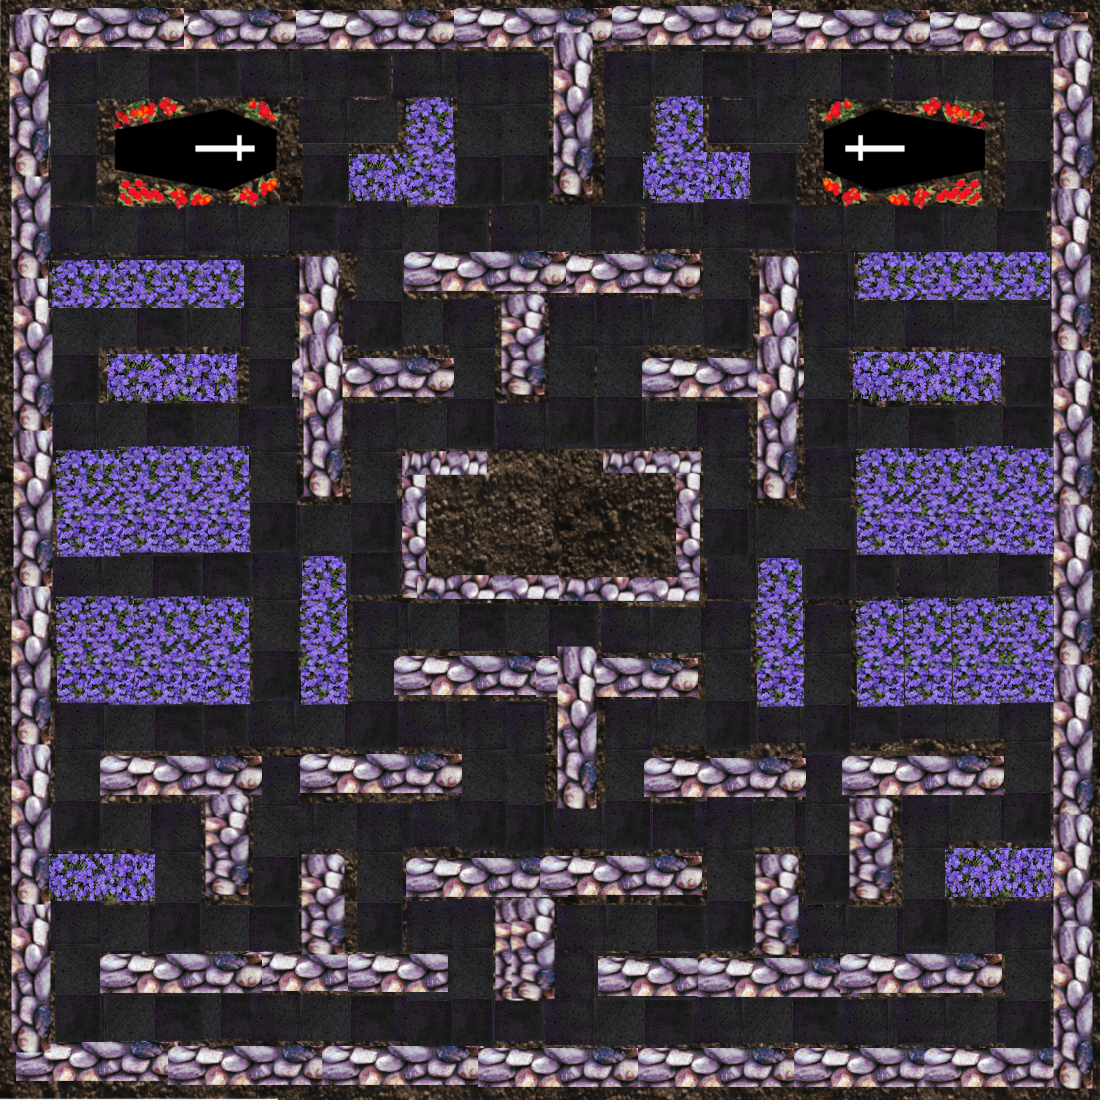
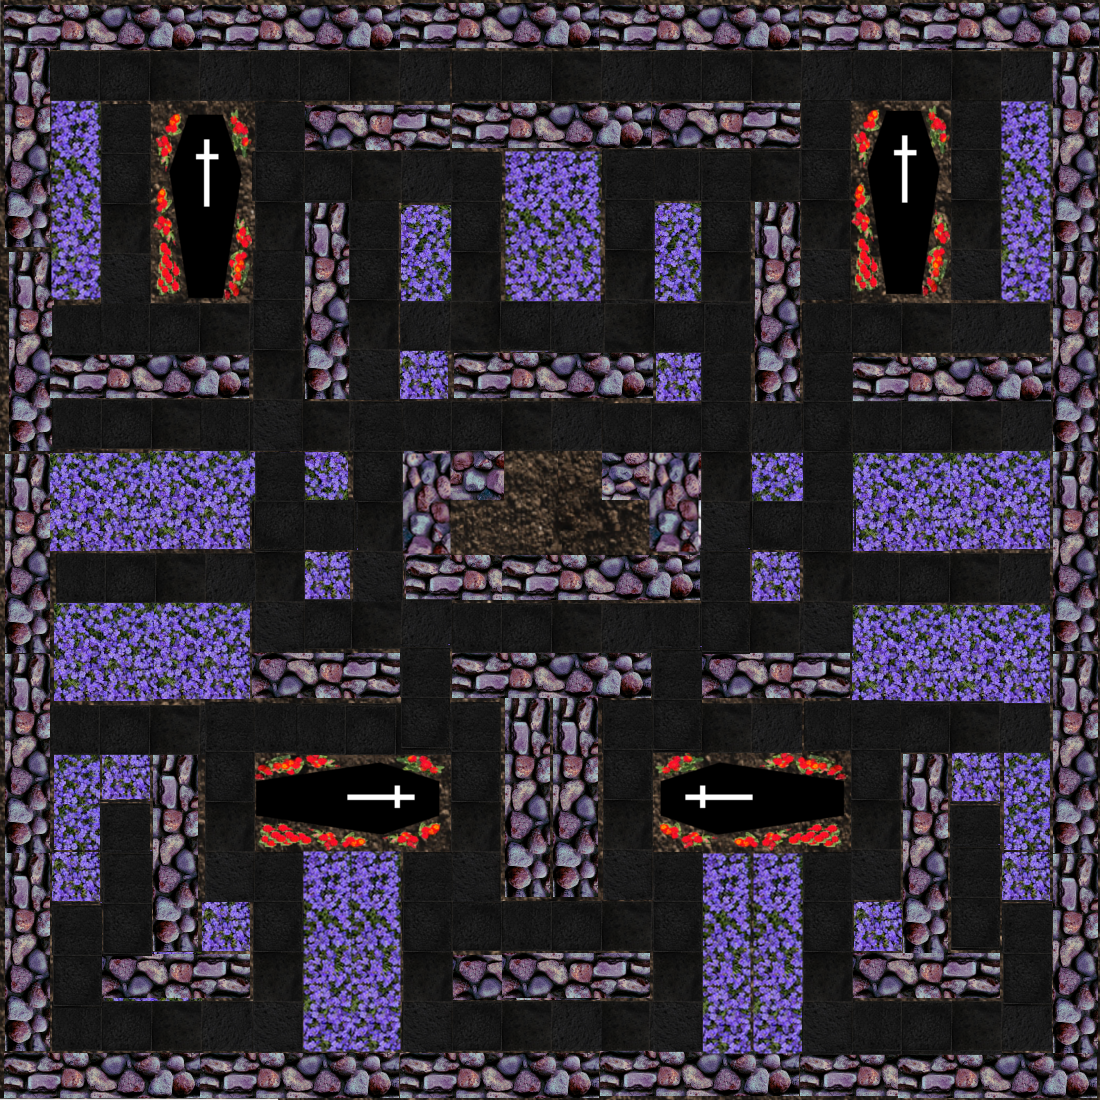
algun que otro cambio para pasar al siguiente nivel

diff --git a/Fifteen-chan_game/src/logica/LogicaColisiones.java b/Fifteen-chan_game/src/logica/LogicaColisiones.java
@@ -22,24 +22,14 @@ import visitor.VisitorFantasma;
 import visitor.VisitorPacman;
 
 public class LogicaColisiones extends Logica {
-    //atributos de instancia
-    //private int nivel;
-    
+
     private boolean truncarPantalla;
-    
     private VisitorFantasma visitorFantasma;
     private Visitor visitorPacman;
 	protected int cantidadDots;
-    private GUI miGUI;
-    //private int puntos;
-    
-    //private FabricaEntidades miFabrica;
-    
     private Timer miTimer;
     protected LogicaGeneral miLogicaGeneral;
-    //constructor
 
-    //metodos
     public LogicaColisiones(GUI gui,LogicaGeneral logicaGeneral) {
        visitorFantasma= new VisitorFantasma();
        miLogicaGeneral = logicaGeneral;
@@ -48,17 +38,6 @@ public class LogicaColisiones extends Logica {
        miGUI=gui;
       
      }
-    
-   /* public void setFabrica(String fab) {
-    	this.getFabrica(fab);
-      
-    }
-    
-    private void getFabrica(String fab) {
-    	switch(fab) {
-    	 case "vampiros": miFabrica=new FabricaVampiro();
-    	}
-    }*/
 
     public void visitarBloque(EntidadDinamica visitante, Point direccion) {
       if(visitante.toString()=="Enemigo") { 
@@ -70,44 +49,18 @@ public class LogicaColisiones extends Logica {
       }
     }
     
-    /*public void cambiarNivel(int niv) {
-    	
-    }*/
+   
     public void actualizarPantalla() {
     	miGUI.actualizar();
     }
-    /*public void comenzarJuego() {
-        this.nivel1();
-      }*/
-    
-    /*private void nivel1() {
-    	jugando=true;
-    	this.nivel=1;
-        miPersonaje= new Personaje(this, miFabrica.getPersonaje());
-        miGUI.addGrillaNivel1(miPersonaje.getEntidadGrafica());
-        NivelAbstracto nivel1= new Nivel1(this);
-        matriz=nivel1.getMatriz(miFabrica);
-        megamind= new MenteEnemiga(this,  miFabrica.getBlinky(), miFabrica.getInky(), miFabrica.getPinky());
-        megamind.start();  
-        for(int i=1; i<=3; i++) {
-        	miGUI.setVida(i, miFabrica.getVida());
-        }
-        miGUI.actualizar();	
-    }*/
-    /*public void terminarJuego() {
-
-    }*/
+   
     public Boolean colisionaConPacman(Point Ubicacion) {
     	return (this.obtenerBloque(Ubicacion)==this.obtenerBloque(miPersonaje.getPosicion()));
       }
 
-      
-
     public void perderVida() {
     	miGUI.setVida(vidas, miLogicaGeneral.miFabrica.getVidaMuerta());
-    	megamind.resetearFantasmas();
-    	miPersonaje.resetear();
-    	miGUI.actualizar();
+    	this.reset();
     	vidas--;
     	if(vidas==0) {
     		miLogicaGeneral.terminarJuego();
@@ -120,11 +73,7 @@ public class LogicaColisiones extends Logica {
     public void agarroBomba() {
 
     }
-    /*public void sumarPuntos(int i) {
-    	puntos=puntos+i;
-    	miGUI.actualizarPuntos(puntos);
-    }*/
-    
+        
    
     public void agarroVelocidad() {
     	miPersonaje.setMovimiento(15);

diff --git a/Fifteen-chan_game/src/logica/LogicaGeneral.java b/Fifteen-chan_game/src/logica/LogicaGeneral.java
@@ -13,9 +13,9 @@ public class LogicaGeneral extends Logica {
 	//atributos de instancia
 	private int puntos;
 	private int nivel;
-	private GUI miGUI;
 	protected FabricaEntidades miFabrica;
 	protected LogicaColisiones miLogicaColisiones;
+	
 
 	
 	//constructor
@@ -41,22 +41,29 @@ public class LogicaGeneral extends Logica {
 	    }
     }
     
-    public void cambiarNivel(int niv) {
+    public void cambiarNivel() {
+    	miLogicaColisiones.reset();
+    	nivel++;
+    	nivelAbstracto.siguienteNivel(nivel);
+     	miGUI.cambiarNivel(nivel);
+    	matriz=nivelAbstracto.getMatriz(miFabrica);
+    	miLogicaColisiones.setMatriz(matriz);
     	
     }
     public void comenzarJuego() {
         this.nivel1();
     }
     private void nivel1() {
+    	//221
     	jugando=true;
     	miLogicaColisiones.jugando=true;
     	this.nivel=1;
         miPersonaje= new Personaje(miLogicaColisiones, miFabrica.getPersonaje());
         miLogicaColisiones.setPersonaje(miPersonaje);
         miGUI.addGrillaNivel1(miPersonaje.getEntidadGrafica());
-        NivelAbstracto nivel1= new Nivel1(miLogicaColisiones);
-        matriz=nivel1.getMatriz(miFabrica);
-        miLogicaColisiones.setCantidadDots(221);
+        nivelAbstracto = new Nivel1(miLogicaColisiones);
+        matriz=nivelAbstracto.getMatriz(miFabrica);
+        miLogicaColisiones.setCantidadDots(3);
         miLogicaColisiones.setMatriz(matriz);
         megamind= new MenteEnemiga(this,miLogicaColisiones,  miFabrica.getBlinky(), miFabrica.getInky(), miFabrica.getPinky());
         miLogicaColisiones.setMenteEnemiga(megamind);
@@ -71,7 +78,7 @@ public class LogicaGeneral extends Logica {
     }
 
     public void terminarJuego() {
-    	
+   
     }
     public int getNivel() {
     	return nivel;

diff --git a/Fifteen-chan_game/src/Nivel/Nivel1.java b/Fifteen-chan_game/src/Nivel/Nivel1.java
@@ -70,6 +70,32 @@ public class Nivel1 extends NivelAbstracto{
 		return matriz;
 		
 	}
+	public void siguienteNivel(int i) {
+		if (i==2) {
+			matrizNivel = new int[][] {
+				{2, 1, 1, 1, 1, 1, 1, 1, 1, 1, 1, 1, 1, 1, 1, 1, 1, 1, 1, 2},
+				{0, 1, 0, 0, 1, 0, 0, 0, 0, 0, 0, 0, 0, 0, 0, 1, 0, 0, 1, 0},
+				{0, 1, 0, 0, 1, 1, 1, 1, 1, 0, 0, 1, 1, 1, 1, 1, 0, 0, 1, 0},
+				{0, 1, 0, 0, 1, 0, 1, 0, 1, 0, 0, 1, 0, 1, 0, 1, 0, 0, 1, 0},
+				{0, 1, 0, 0, 1, 0, 1, 0, 1, 0, 0, 1, 0, 1, 0, 1, 0, 0, 1, 0},
+				{1, 1, 1, 1, 1, 0, 1, 1, 1, 1, 1, 1, 1, 1, 0, 1, 1, 1, 1, 1},
+				{0, 0, 0, 0, 1, 0, 1, 0, 0, 0, 0, 0, 0, 1, 0, 1, 0, 0, 0, 0},
+				{1, 1, 1, 1, 1, 1, 1, 1, 1, 1, 1, 1, 1, 1, 1, 1, 1, 1, 1, 1},
+				{0, 0, 0, 0, 1, 0, 1, 0, 0, 3, 3, 0, 0, 1, 0, 1, 0, 0, 0, 0},
+				{0, 0, 0, 0, 1, 1, 1, 0, 3, 3, 3, 3, 0, 1, 1, 1, 0, 0, 0, 0},
+				{1, 1, 1, 1, 1, 0, 1, 0, 0, 0, 0, 0, 0, 1, 0, 1, 1, 1, 1, 1},
+				{0, 0, 0, 0, 1, 1, 1, 1, 1, 1, 1, 1, 1, 1, 1, 1, 0, 0, 0, 0},
+				{0, 0, 0, 0, 0, 0, 0, 1, 0, 0, 0, 0, 1, 0, 0, 0, 0, 0, 0, 0},
+				{1, 1, 1, 1, 1, 1, 1, 1, 1, 0, 0, 1, 1, 1, 1, 1, 1, 1, 1, 1},
+				{0, 0, 0, 1, 0, 0, 0, 0, 1, 0, 0, 1, 0, 0, 0, 0, 1, 0, 0, 0},
+				{0, 1, 0, 1, 0, 0, 0, 0, 1, 0, 0, 1, 0, 0, 0, 0, 1, 0, 1, 0},
+				{0, 1, 0, 1, 1, 0, 0, 1, 1, 0, 0, 1, 1, 0, 0, 1, 1, 0, 1, 0},
+				{1, 1, 0, 0, 1, 0, 0, 1, 1, 1, 1, 1, 1, 0, 0, 1, 0, 0, 1, 1},
+				{1, 0, 0, 0, 1, 0, 0, 1, 0, 0, 0, 0, 1, 0, 0, 1, 0, 0, 0, 1},
+				{2, 1, 1, 1, 1, 0, 0, 1, 1, 1, 1, 1, 1, 0, 0, 1, 1, 1, 1, 2}};
+		    }
+		}
+	
 	public int getDots() {
 		return cantidadDots;
 	}

diff --git a/Fifteen-chan_game/src/gui/GUI.java b/Fifteen-chan_game/src/gui/GUI.java
@@ -317,28 +317,35 @@ private void initialize() {
 		
    }
 
-public void setVida(int vida, String icono) {
-	switch(vida) {
-		case 1: vida1.setIcon(new ImageIcon(GUI.class.getResource(icono))); break;
-		case 2: vida2.setIcon(new ImageIcon(GUI.class.getResource(icono)));break;
-		case 3: vida3.setIcon(new ImageIcon(GUI.class.getResource(icono))); break;
+	public void setVida(int vida, String icono) {
+		switch(vida) {
+			case 1: vida1.setIcon(new ImageIcon(GUI.class.getResource(icono))); break;
+			case 2: vida2.setIcon(new ImageIcon(GUI.class.getResource(icono)));break;
+			case 3: vida3.setIcon(new ImageIcon(GUI.class.getResource(icono))); break;
+		}
 	}
-}
 
 
-public void actualizarPuntos(int ptos) {
-	lblPuntuacion.setText(String.valueOf(ptos));
-}
+	public void actualizarPuntos(int ptos) {
+		lblPuntuacion.setText(String.valueOf(ptos));
+	}
 
-public void actualizar() {
-	frame.repaint();
-}
+	public void actualizar() {
+		frame.repaint();
+	}
 
 
-public void addGrillaNivel1(JLabel imagen) {
-	this.frame.getContentPane().add(imagen);
-	this.grillaNivel1.add(imagen);
-	this.frame.repaint();
+	public void addGrillaNivel1(JLabel imagen) {
+		this.frame.getContentPane().add(imagen);
+		this.grillaNivel1.add(imagen);
+		this.frame.repaint();
 	
-}
+	}
+	public void cambiarNivel(int i) {
+		if(i==2) {
+			grillaNivel1=new Panel("/Images/nivelvampiro2.png");
+			this.actualizar();
+		}
+		
+	}
 }

diff --git a/Fifteen-chan_game/src/logica/Logica.java b/Fifteen-chan_game/src/logica/Logica.java
@@ -1,7 +1,9 @@
 package logica;
 
+import Nivel.Nivel1;
 import entidades.Bloque;
 import entidades.Personaje;
+import gui.GUI;
 
 public abstract class Logica {
 	protected Boolean jugando;
@@ -9,4 +11,14 @@ public abstract class Logica {
 	protected Bloque[][] matriz;
 	protected MenteEnemiga megamind;
 	protected int vidas;
+	protected GUI miGUI;
+	protected Nivel1 nivelAbstracto;
+	
+	
+	//metodos
+	public void reset() {
+		megamind.resetearFantasmas();
+    	miPersonaje.resetear();
+    	miGUI.actualizar();
+	}
  }

diff --git a/Fifteen-chan_game/src/visitor/VisitorPacman.java b/Fifteen-chan_game/src/visitor/VisitorPacman.java
@@ -33,11 +33,10 @@ public class VisitorPacman implements Visitor {
 		Bloque eliminar=miLogicaColisiones.obtenerBloque(dot.getPosicion());
 		eliminar.eliminarEntidadEstatica();
 		miLogicaColisiones.pacmanPuedeMoverse();
-
 		miLogicaColisiones.restarDots();
 		System.out.println(miLogicaColisiones.getCantidadDots());
 		if(miLogicaColisiones.noQuedanDots()) {
-			miLogicaGeneral.cambiarNivel(miLogicaGeneral.getNivel()+1);
+			miLogicaGeneral.cambiarNivel(	);
 		}
 	}
 

diff --git a/Fifteen-chan_game/src/logica/MenteEnemiga.java b/Fifteen-chan_game/src/logica/MenteEnemiga.java
@@ -136,4 +136,5 @@ public class MenteEnemiga extends Thread{
 		}
 	}
 	
+	
 }
